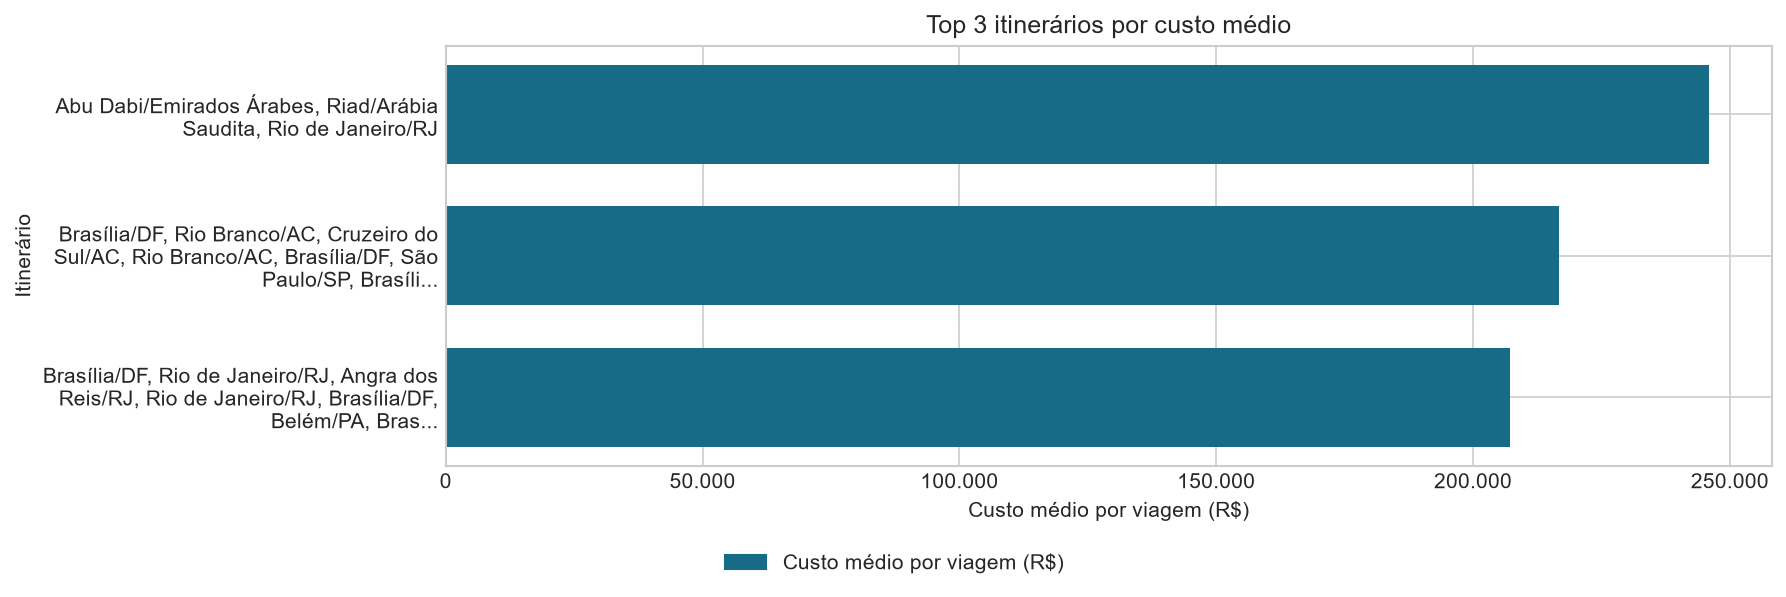
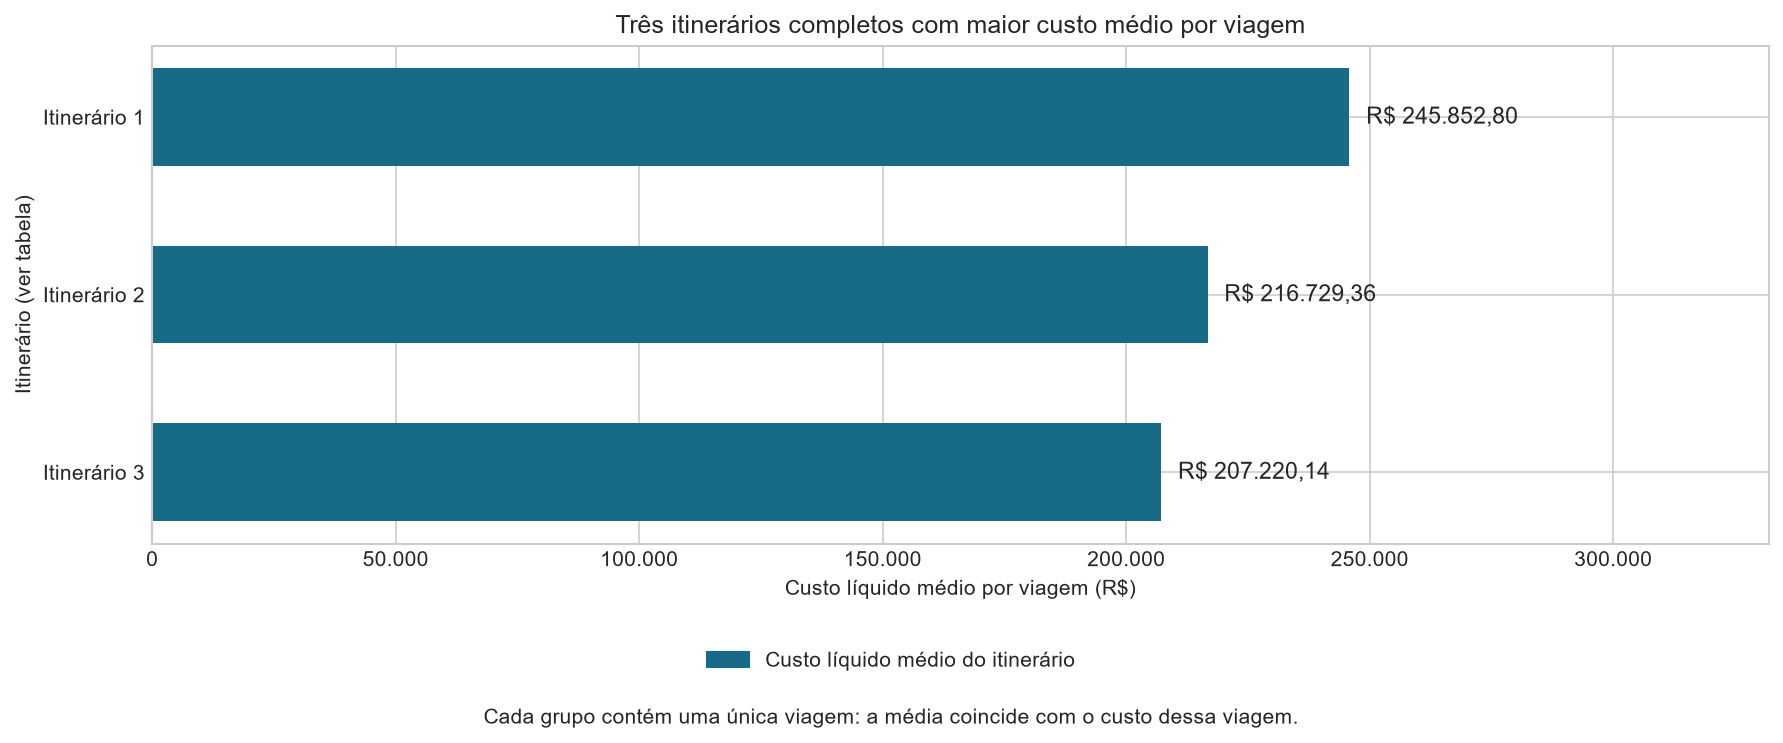
docs: registra notebook validado e evidencias da pergunta 2
Executa 13 celulas sem erros e preserva seis graficos. Confirma sete respostas identicas, consulta original preservada e cinco outros graficos identicos byte a byte. Validacao integrada PostgreSQL, Ruff e quatro testes aprovados.

Changed region(s): [[0.0308, 0.5427, 1.0, 0.995], [0.0308, 0.0, 1.0, 0.3015], [0.0, 0.2714, 0.9871, 0.5427]]

diff --git a/reports/insights.md b/reports/insights.md
@@ -1,6 +1,6 @@
 Os cinco órgãos líderes concentram 71.1% do custo líquido conhecido. Ministério da Justiça e Segurança Pública lidera com R$ 486.933.121,65. Isso mede concentração, sem demonstrar irregularidade.
 
-O itinerário com maior média registra R$ 245.852,80. Quantidade de viagens nesse itinerário: 1. Médias com poucas observações devem ser interpretadas com cautela; não se estima um padrão populacional a partir desse ranking.
+O itinerário com maior média registra R$ 245.852,80. Quantidade de viagens nesse itinerário: 1. O ranking compara itinerários completos, não cidades isoladas. Os três grupos possuem uma viagem cada; suas médias coincidem com os custos individuais dessas viagens. Médias com poucas observações devem ser interpretadas com cautela; esse ranking não estima o custo típico de uma cidade.
 
 A viagem 0000000000020699856 apresenta período informado de 384 dias inclusivos e custo líquido registrado de R$ 0,00. Situação: Realizada. O valor zero registrado e o período informado não comprovam, isoladamente, despesa efetiva nula ou deslocamento contínuo durante todo o intervalo.
 
